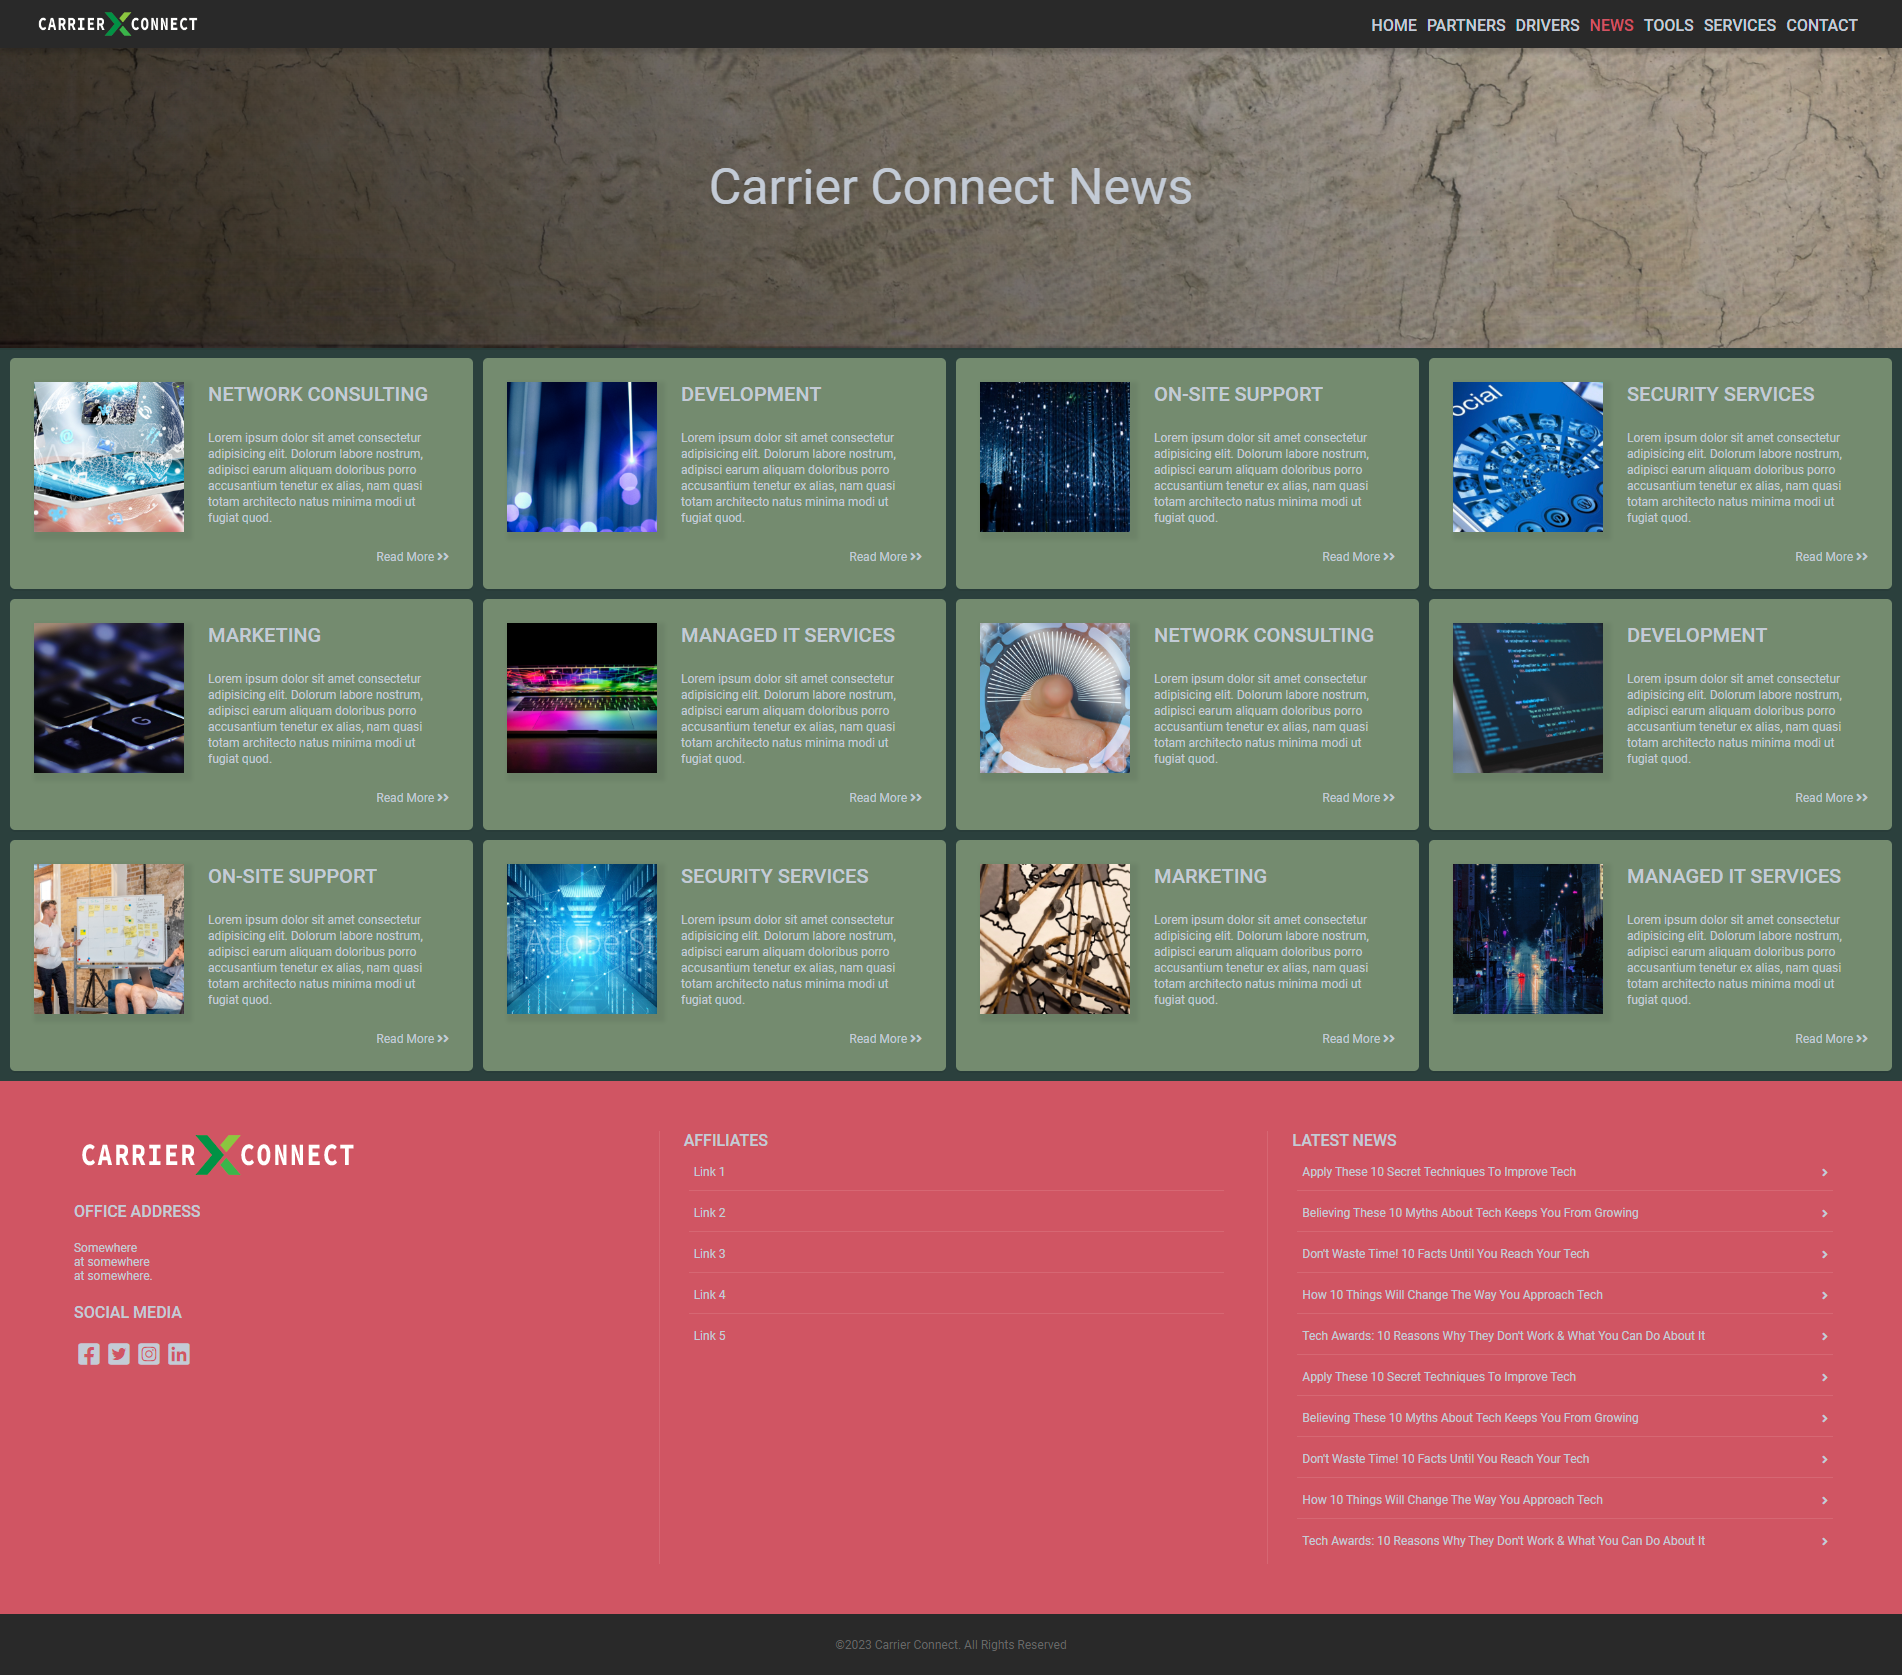
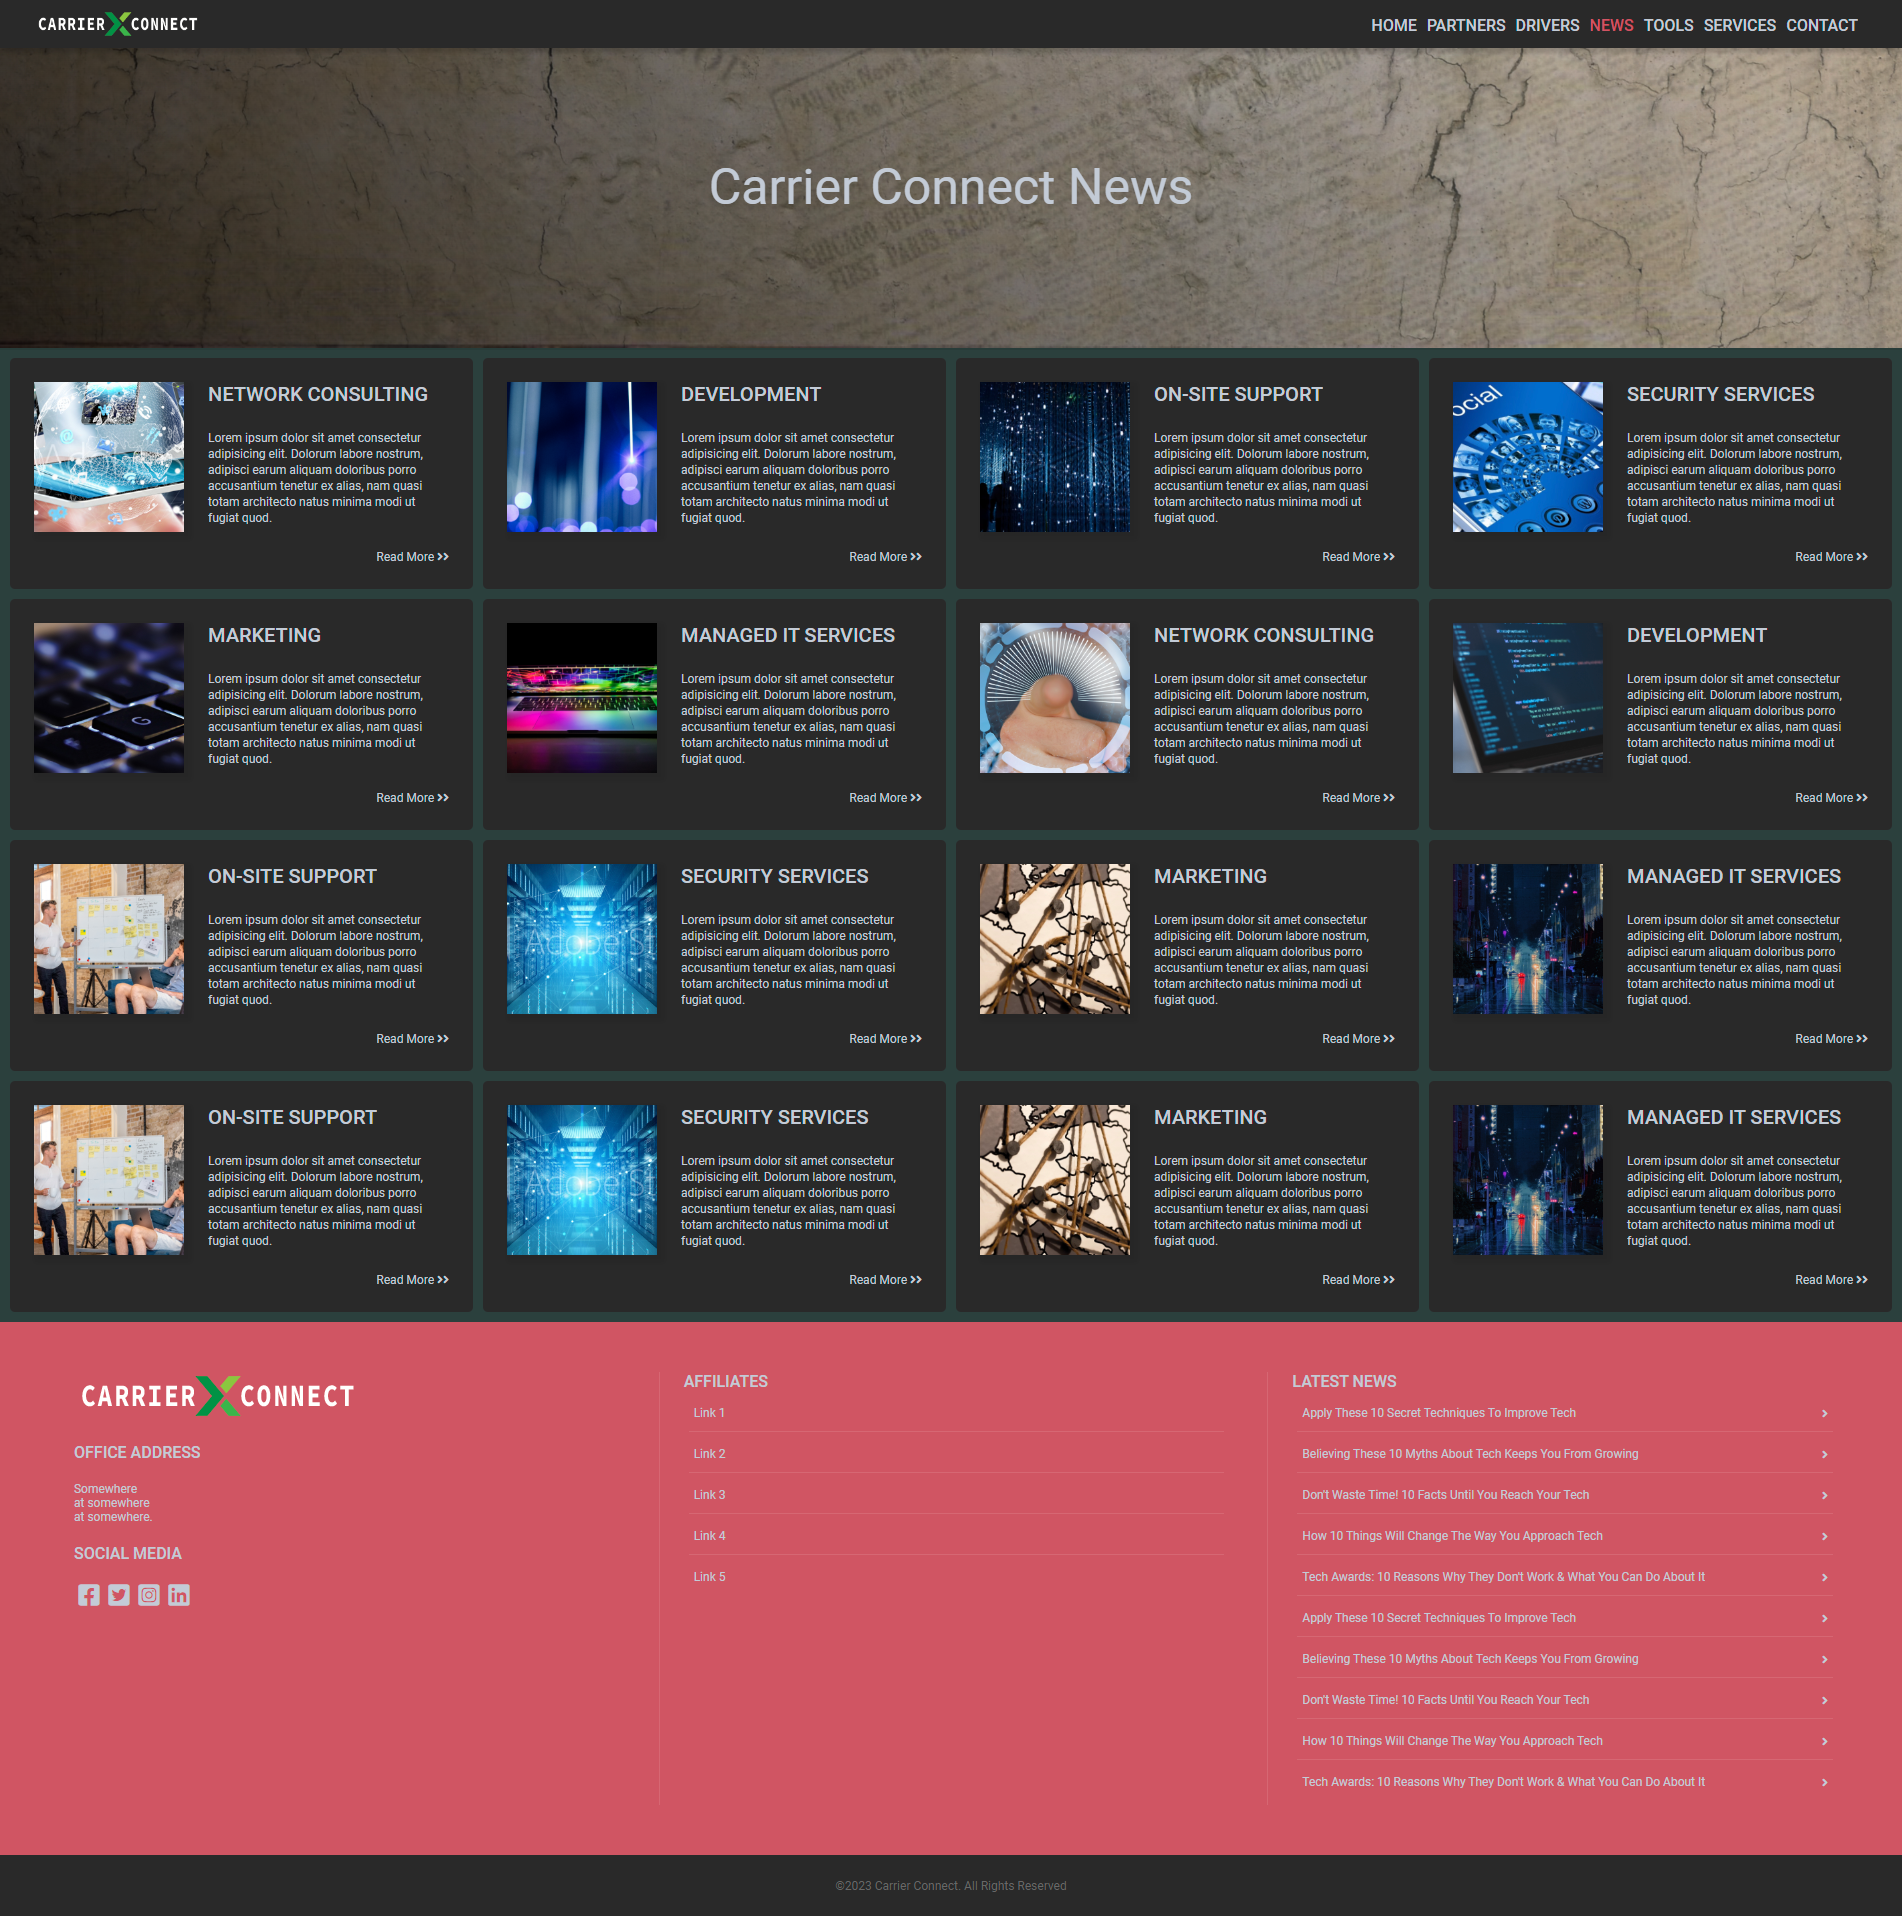
Update theme

diff --git a/client/src/app/news/news.component.html b/client/src/app/news/news.component.html
@@ -116,4 +116,40 @@
           <a href="/">Read More</a>
       </div>
   </div>
+  <div class="feature">
+    <img class="icon" src="assets/images/Rectangle -9.png">
+    <h4 class="heading-4">On-site Support</h4>
+    <p class="featured-text">Lorem ipsum dolor sit amet consectetur adipisicing elit. Dolorum labore nostrum, adipisci earum aliquam doloribus porro accusantium tenetur ex alias, nam quasi totam architecto natus minima modi ut fugiat quod.</p>
+    <div class="readmore">
+        <a href="/">Read More</a>
+    </div>
+</div>
+
+
+<div class="feature">
+    <img class="icon" src="assets/images/Rectangle -10.png">
+    <h4 class="heading-4">Security Services</h4>
+    <p class="featured-text">Lorem ipsum dolor sit amet consectetur adipisicing elit. Dolorum labore nostrum, adipisci earum aliquam doloribus porro accusantium tenetur ex alias, nam quasi totam architecto natus minima modi ut fugiat quod.</p>
+    <div class="readmore">
+        <a href="/">Read More</a>
+    </div>
+</div>
+
+<div class="feature">
+    <img class="icon" src="assets/images/Rectangle -11.png">
+    <h4 class="heading-4">Marketing</h4>
+    <p class="featured-text">Lorem ipsum dolor sit amet consectetur adipisicing elit. Dolorum labore nostrum, adipisci earum aliquam doloribus porro accusantium tenetur ex alias, nam quasi totam architecto natus minima modi ut fugiat quod.</p>
+    <div class="readmore">
+        <a href="/">Read More</a>
+    </div>
+</div>
+
+<div class="feature">
+    <img class="icon" src="assets/images/Rectangle 42.png">
+    <h4 class="heading-4">Managed IT Services</h4>
+    <p class="featured-text">Lorem ipsum dolor sit amet consectetur adipisicing elit. Dolorum labore nostrum, adipisci earum aliquam doloribus porro accusantium tenetur ex alias, nam quasi totam architecto natus minima modi ut fugiat quod.</p>
+    <div class="readmore">
+        <a href="/">Read More</a>
+    </div>
+</div>
 </section>

diff --git a/client/src/app/news/articles/articles.component.scss b/client/src/app/news/articles/articles.component.scss
@@ -46,7 +46,7 @@ $background: #000;
 
 .page-container {
   grid-column: full-start / col-end 6;
-  background: #748b6f;
+  background: #292929;
   box-shadow: 0px 2px 0px 0px #00000010;
   //border-right: 1px solid #fff;
   padding: 2.4rem;
@@ -87,7 +87,7 @@ $background: #000;
 
 .sub-navigation {
   grid-column: col-start 7 / full-end;
-  background: #292929;
+  background: #748b6f;
   padding: 2.4rem;
 
   box-shadow: 0px 2px 0px 0px #00000029;

diff --git a/client/src/app/news/news.component.scss b/client/src/app/news/news.component.scss
@@ -101,8 +101,8 @@ $background: #000;
 
   .feature {
       padding: 2.4rem;
-      background-color: #748b6f;
-      box-shadow: 0px 2px 0px 0px #00000010;
+      background-color: #292929;
+      // box-shadow: 0px 2px 0px 0px #00000010;
       border-radius: 5px;
   }
 }
